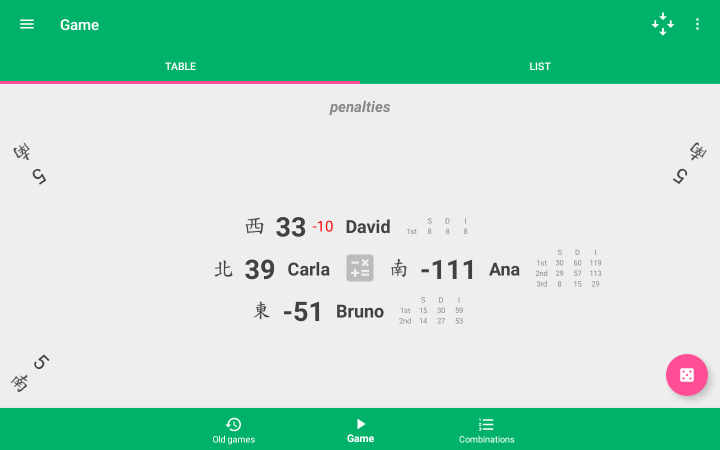
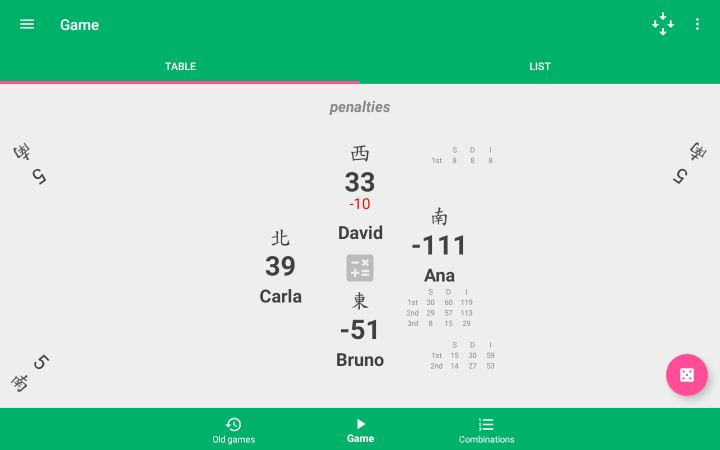
Show West and East diffs beside their seat on tight tables
On 7" tablets in landscape the seats stay vertical while the diffs show: the
West and East diffs go beside the seat instead of below it.
The layout check measures the glyphs of centered texts by their width.

diff --git a/shared/src/commonMain/kotlin/com/etologic/mahjongscoring3/ui/game/GameTable.kt b/shared/src/commonMain/kotlin/com/etologic/mahjongscoring3/ui/game/GameTable.kt
@@ -36,6 +36,12 @@ import androidx.compose.ui.graphics.graphicsLayer
 import androidx.compose.ui.input.pointer.pointerInput
 import androidx.compose.ui.layout.Layout
 import androidx.compose.ui.layout.Measurable
+import androidx.compose.ui.unit.Constraints
+import androidx.compose.ui.layout.IntrinsicMeasureScope
+import androidx.compose.ui.layout.IntrinsicMeasurable
+import androidx.compose.ui.layout.MeasureResult
+import androidx.compose.ui.layout.MeasureScope
+import androidx.compose.ui.layout.MeasurePolicy
 import androidx.compose.ui.layout.SubcomposeLayout
 import androidx.compose.runtime.CompositionLocalProvider
 import androidx.compose.ui.semantics.clearAndSetSemantics
@@ -294,6 +300,14 @@ private fun SeatsBySeat(
             isEnded = game.isEnded,
             seatDiffs = seatsDiffs.getOrNull(index)?.takeIf { showDiffs },
             isRow = isRow,
+            // Tight seats: the diffs of West and East go beside them (at the end far from the diffs button), so the
+            // table keeps its vertical seats while the diffs show
+            diffsBeside = when {
+                layout != SeatsLayout.TIGHT || arrangement == SeatsArrangement.OUT -> null
+                seat == TableWinds.WEST -> Alignment.Top
+                seat == TableWinds.EAST -> Alignment.Bottom
+                else -> null
+            },
             onClick = { onSeatClick(seat) },
             modifier = extraModifier
                 .testTag("iGameTableSeat" + seat.name.lowercase().replaceFirstChar { it.uppercase() })
@@ -321,7 +335,8 @@ private fun SeatsBySeat(
         val loose = constraints.copy(minWidth = 0, minHeight = 0)
         val width = constraints.maxWidth
         val height = constraints.maxHeight
-        val tightSeats = subcompose("probe") { Seats(SeatsLayout.TIGHT, isProbe = true) }
+        val fullSeats = subcompose("fullProbe") { Seats(SeatsLayout.FULL, isProbe = true) }
+        val tightSeats = subcompose("tightProbe") { Seats(SeatsLayout.TIGHT, isProbe = true) }
         val button = tightSeats[0].measure(loose)
         val cx = width / 2
         val cy = height / 2
@@ -332,13 +347,13 @@ private fun SeatsBySeat(
         // Turned seats (OUT arrangement) take their width as height on the screen
         fun Measurable.screenHeight(isTurned: Boolean) = if (isTurned) maxIntrinsicWidth(height) else maxIntrinsicHeight(width)
         val isOut = arrangement == SeatsArrangement.OUT
-        val eastHeight = tightSeats[1].maxIntrinsicHeight(width)
-        val westHeight = tightSeats[3].maxIntrinsicHeight(width)
-        val sidesFit = tightSeats[2].screenHeight(isOut) <= height && tightSeats[4].screenHeight(isOut) <= height
-        fun fits(gap: Int) = sidesFit && eastHeight + gap <= height - buttonBottom && westHeight + gap <= buttonTop
+        // The probes include the paddings: the West and East seats must fit above and below the diffs button
+        fun List<Measurable>.fit() = this[1].maxIntrinsicHeight(width) <= height - buttonBottom &&
+            this[3].maxIntrinsicHeight(width) <= buttonTop &&
+            this[2].screenHeight(isOut) <= height && this[4].screenHeight(isOut) <= height
         val seatsLayout = when {
-            fits((fullMargin - tightMargin).roundToPx()) -> SeatsLayout.FULL
-            fits(0) -> SeatsLayout.TIGHT
+            fullSeats.fit() -> SeatsLayout.FULL
+            tightSeats.fit() -> SeatsLayout.TIGHT
             else -> SeatsLayout.ROW
         }
         // One slot for every layout: a second slot would stay in the tree (and in the semantics) when not used
@@ -387,17 +402,75 @@ private fun SeatBySeat(
     onClick: () -> Unit,
     modifier: Modifier = Modifier,
     isRow: Boolean = false,
+    diffsBeside: Alignment.Vertical? = null,
 ) {
     if (isRow) {
         SeatBySeatRow(wind, points, penalty, name, state, isEnded, seatDiffs, onClick, modifier)
         return
     }
+    val clickableModifier = modifier.clickable(
+        interactionSource = remember { MutableInteractionSource() },
+        indication = null,
+        onClick = rememberSecureClick(action = onClick),
+    )
+    if (seatDiffs != null && diffsBeside != null) {
+        // The seat stays in the center (the same width on both sides) and the diffs go to its end
+        Layout(
+            content = {
+                SeatBySeatColumn(wind, points, penalty, name, state, isEnded, seatDiffs = null)
+                DiffsSmallTable(seatDiffs)
+            },
+            modifier = clickableModifier,
+            measurePolicy = SeatWithDiffsBesideMeasurePolicy(diffsBeside),
+        )
+    } else {
+        SeatBySeatColumn(wind, points, penalty, name, state, isEnded, seatDiffs, clickableModifier)
+    }
+}
+
+/** A seat (first child) in the center and its diffs (second child) at its end, aligned by [diffsAlignment]. */
+private class SeatWithDiffsBesideMeasurePolicy(private val diffsAlignment: Alignment.Vertical) : MeasurePolicy {
+    override fun MeasureScope.measure(measurables: List<Measurable>, constraints: Constraints): MeasureResult {
+        val loose = constraints.copy(minWidth = 0, minHeight = 0)
+        val gap = MmDimens.HalfMargin.roundToPx()
+        val diffs = measurables[1].measure(loose)
+        val side = diffs.width + gap
+        val column = measurables[0].measure(loose.copy(maxWidth = (loose.maxWidth - 2 * side).coerceAtLeast(0)))
+        val height = maxOf(column.height, diffs.height)
+        return layout(column.width + 2 * side, height) {
+            column.place(side, 0)
+            diffs.place(side + column.width + gap, diffsAlignment.align(diffs.height, height))
+        }
+    }
+
+    // The diffs are beside the seat: the height is the tallest of both
+    override fun IntrinsicMeasureScope.maxIntrinsicHeight(measurables: List<IntrinsicMeasurable>, width: Int): Int =
+        maxOf(measurables[0].maxIntrinsicHeight(width), measurables[1].maxIntrinsicHeight(width))
+
+    override fun IntrinsicMeasureScope.minIntrinsicHeight(measurables: List<IntrinsicMeasurable>, width: Int): Int =
+        maxOf(measurables[0].minIntrinsicHeight(width), measurables[1].minIntrinsicHeight(width))
+
+    override fun IntrinsicMeasureScope.maxIntrinsicWidth(measurables: List<IntrinsicMeasurable>, height: Int): Int =
+        measurables[0].maxIntrinsicWidth(height) + 2 * (measurables[1].maxIntrinsicWidth(height) + MmDimens.HalfMargin.roundToPx())
+
+    override fun IntrinsicMeasureScope.minIntrinsicWidth(measurables: List<IntrinsicMeasurable>, height: Int): Int =
+        measurables[0].minIntrinsicWidth(height) + 2 * (measurables[1].minIntrinsicWidth(height) + MmDimens.HalfMargin.roundToPx())
+}
+
+/** Wind icon, points, penalty and name, one below the other (MS2 "custom_table_seat_by_seat"). */
+@Composable
+private fun SeatBySeatColumn(
+    wind: TableWinds,
+    points: Int,
+    penalty: Int,
+    name: String,
+    state: SeatState,
+    isEnded: Boolean,
+    seatDiffs: SeatDiffs?,
+    modifier: Modifier = Modifier,
+) {
     Column(
-        modifier = modifier.clickable(
-            interactionSource = remember { MutableInteractionSource() },
-            indication = null,
-            onClick = rememberSecureClick(action = onClick),
-        ),
+        modifier = modifier,
         horizontalAlignment = Alignment.CenterHorizontally,
     ) {
         WindIcon(wind, state.color)

diff --git a/shared/src/commonTest/kotlin/com/etologic/mahjongscoring3/ui/LayoutChecks.kt b/shared/src/commonTest/kotlin/com/etologic/mahjongscoring3/ui/LayoutChecks.kt
@@ -10,6 +10,7 @@ import androidx.compose.ui.test.ExperimentalTestApi
 import androidx.compose.ui.test.isRoot
 import androidx.compose.ui.text.TextLayoutResult
 import androidx.compose.ui.text.style.TextOverflow
+import androidx.compose.ui.text.style.TextAlign
 import kotlin.math.max
 import kotlin.math.min
 
@@ -124,16 +125,23 @@ private fun SemanticsNode.textLayout(): TextLayoutResult? {
 
 /**
  * Where the glyphs of the text are drawn, in root coordinates: from the cap height of the first line to the
- * descenders of the last one. Horizontally, the bounds of the node (the layout of the semantics can be wider).
+ * descenders of the last one, and as wide as the widest line, placed by the text alignment.
  */
 private fun SemanticsNode.inkBounds(nodeBounds: Rect): Rect? {
     val layout = textLayout() ?: return null
     if (layout.lineCount == 0) return null
     val em = with(layout.layoutInput.density) { layout.layoutInput.style.fontSize.toPx() }
+    // The text is as wide as its widest line, placed in the node by its alignment
+    val textWidth = minOf(nodeBounds.width, (0 until layout.lineCount).maxOf { layout.getLineRight(it) - layout.getLineLeft(it) })
+    val left = when (layout.layoutInput.style.textAlign) {
+        TextAlign.Center -> nodeBounds.left + (nodeBounds.width - textWidth) / 2
+        TextAlign.End, TextAlign.Right -> nodeBounds.right - textWidth
+        else -> nodeBounds.left
+    }
     return Rect(
-        left = nodeBounds.left,
+        left = left,
         top = nodeBounds.top + layout.getLineBaseline(0) - 0.72f * em,
-        right = nodeBounds.right,
+        right = left + textWidth,
         bottom = nodeBounds.top + layout.getLineBaseline(layout.lineCount - 1) + 0.2f * em,
     )
 }
